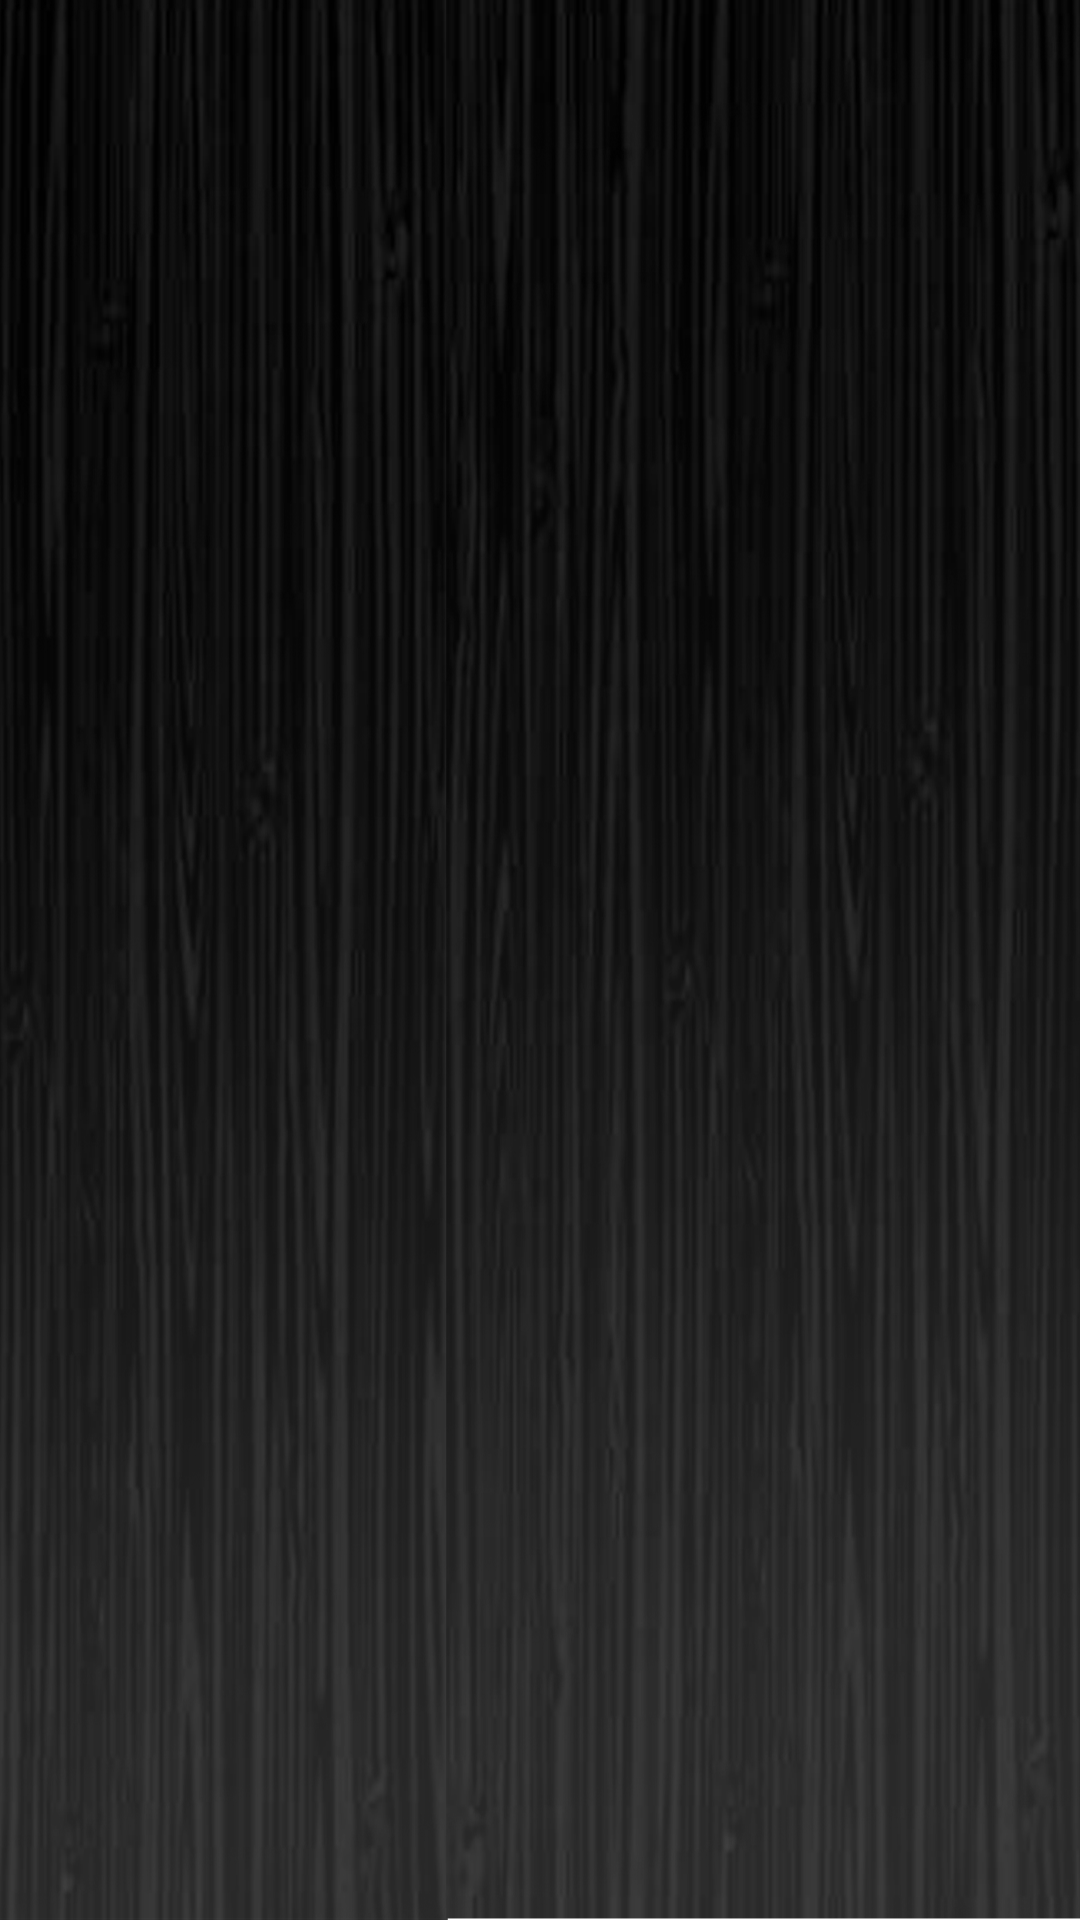
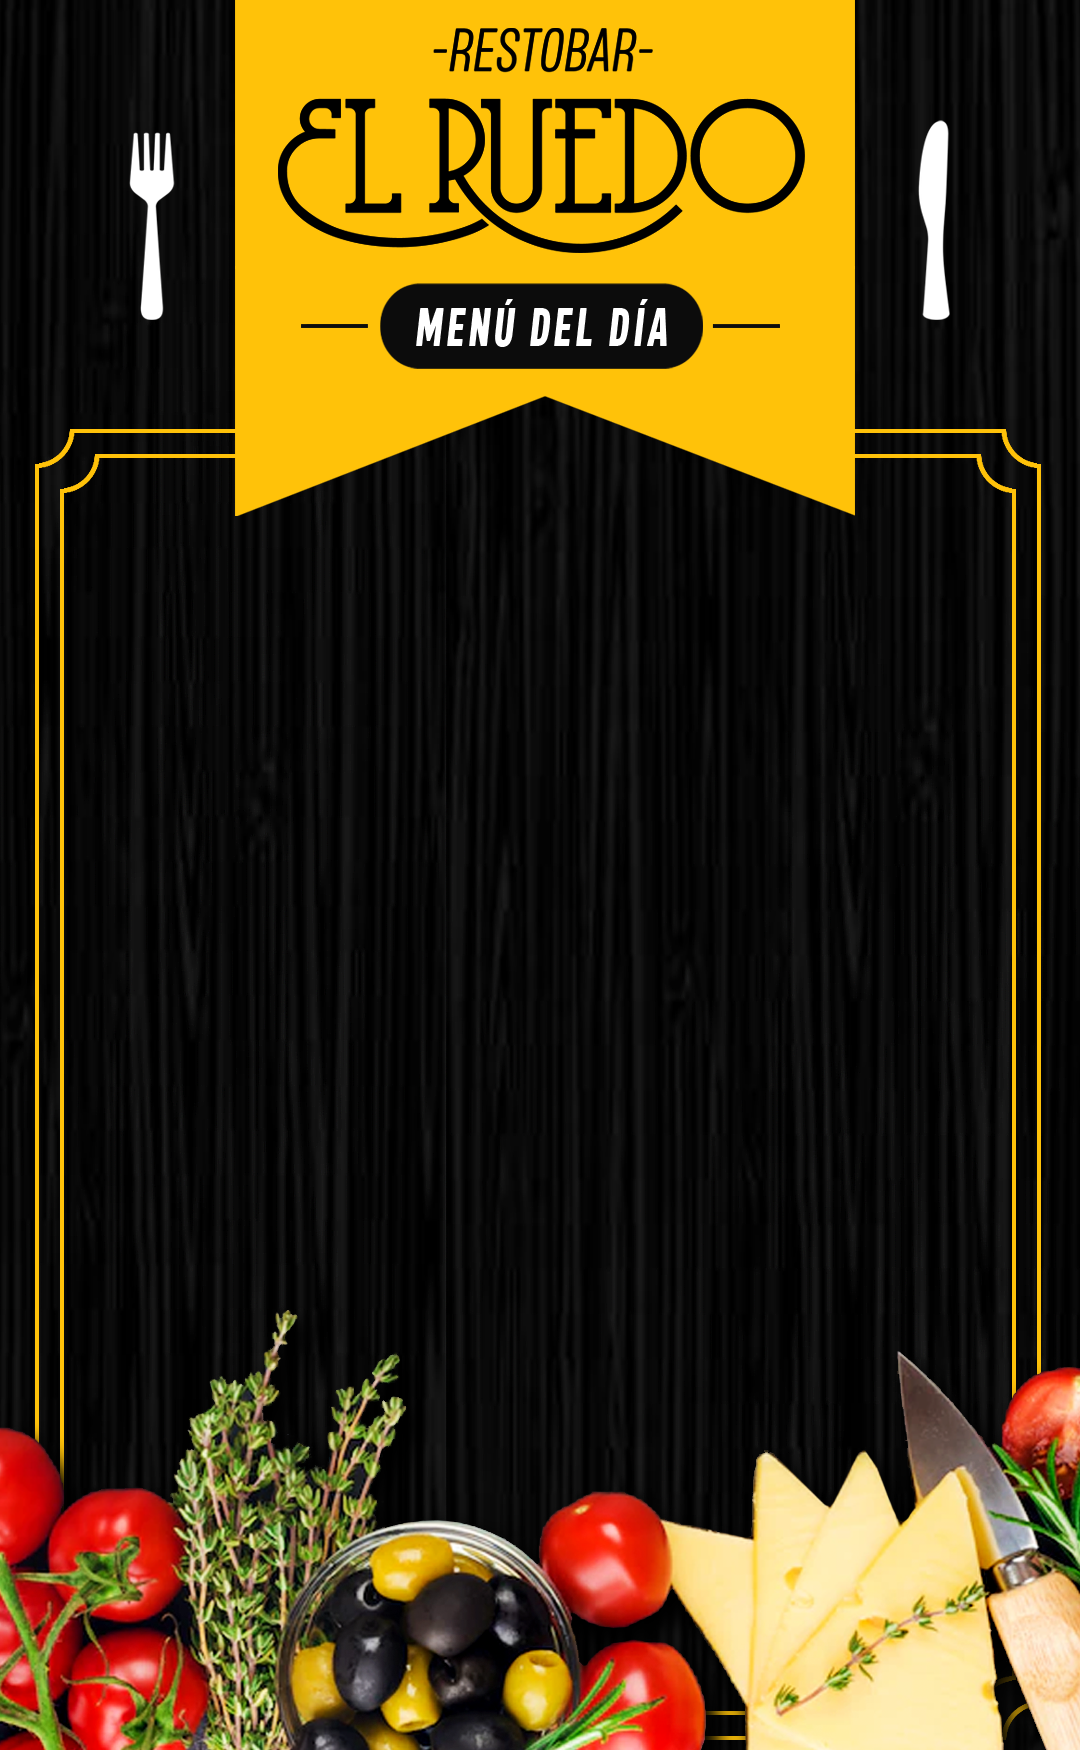
img misc

diff --git a/menu.html b/menu.html
@@ -37,9 +37,8 @@
         }
 
         .bkgMD {
-            /*background-image: url('./img/MDbkg-1.jpg') !important;*/
             background-image: url('./img/MDbkg-2.png') !important;
-
+            background-size: cover;
         }
 
         .titDomicilio {
@@ -52,15 +51,16 @@
         .titDomicilio_btn {
             width: 100%;
             text-align: center;
-            height: 50px;
-            background-color: chocolate;
+            height: 80px;
+            background-color: #f32f13;
             display: flex;
             align-items: center;
             justify-content: center;
         }
         .titDomicilio_btn a {
             font-weight: bold;
-            color: #170000;
+            color: #ffffff;
+            font-size: 1.5rem;
         }
 
         .subCategorias {
@@ -85,6 +85,21 @@
             color: transparent;
             -webkit-background-clip: text;
             background-clip: text;
+        }
+        .bkgMD-img {
+            width: 100vw;
+            object-fit: fill;
+        }
+        .holder-MD {
+            position: relative !important;
+            padding: 0 0 0 0 !important;
+        }
+        .listaMD {
+            position: absolute !important;
+            top: 20%;
+            left: 0;
+            right: 0;
+            margin: 0 auto;
         }
        
     </style>
@@ -118,22 +133,24 @@
     <!-- Navbar End -->
 
     <!-- MENU DEL DIA Start -->
+    <!--
     <div class="container-fluid page-header position-relative">
         <div class="d-flex flex-column align-items-center justify-content-center pt-0 pt-lg-5" style="min-height: 100px">
             <h1 class="display-4 mt-0 mt-lg-5 text-primary text-uppercase">MENÚ DEL DÍA</h1>
         </div>
     </div>
+    -->
 
-    <div class="container-fluid pt-2 bkgMD">
-        <div class="container">
+    <div class="container-fluid pt-2 holder-MD">
+        <img class="bkgMD-img" src="img/MDbkg-2.png" alt="" srcset="">
+        <div class="container listaMD">
             <div class="row">
                 <div class="col-lg-6" id="script-menuDiario"></div>
             </div>
         </div>
     </div>
 
-    <div class="titDomicilio">Envíos a domicilio!</div>
-    <div class="titDomicilio_btn"><a href="https://wa.me/5493412148540" target="_blank">>>>Hacé tu pedido acá<<<</a></div>
+    <div class="titDomicilio_btn"><a href="https://wa.me/5493412148540" target="_blank">Envíos a domicilio!<br>>>>Hacé tu pedido acá<<<</a></div>
     <!-- MENU DEL DIA End -->
 
     <!-- Desayunos Start -->
@@ -450,14 +467,8 @@
                 var menuDiarioHTML = `
                 <div style="justify-content: center; margin-bottom: 1.5rem !important;" class="row align-items-center mt-5 mb-5" id="head-${i}-MD">
                     <h5 class="mb-0">
-                        <button style="text-decoration: none !important;" class="btn btn-link collapsed" data-toggle="collapse" data-target="#collapse-${i}-MD" aria-expanded="false" aria-controls="collapse-${i}-MD">
-                            <h4 class="nombreMenuDiario">${row[1]}</h4>
-                        </button>
+                        <h4 class="nombreMenuDiario">${row[1]}</h4>
                     </h5>
-                </div>
-
-                <div id="collapse-${i}-MD" class="collapse" aria-labelledby="head-${i}-MD" data-parent="#accordion">
-                    <h5 class="menu-price menu-price2">$${row[2]}</h5>
                 </div>
                 `;
                 listaMenuDiario.innerHTML += menuDiarioHTML;
